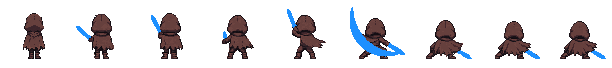
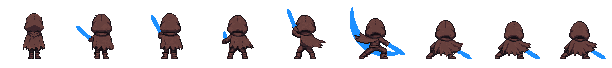
fix: 후면 1타 베기 잔상을 몸 뒤로, 끊긴 가운데 잇기
사용자 지적: 뒷모습이라 칼은 몸 너머인데 잔상이 몸 위에 그려졌고, 원본 칼 자리 지우기 때문에 잔상 가운데가 끊겼다.

Changed region(s): [[0.5588, 0.5, 0.652, 0.8235]]

diff --git a/assets/concepts/pixellab/player_import/build_remake_preview.py b/assets/concepts/pixellab/player_import/build_remake_preview.py
@@ -116,7 +116,9 @@ FRAME_PICK = {
 # 파란 덩어리를 모두 휘두른 잔상으로 보는 프레임 (칼은 몸에 가려 안 보이고 잔상만 있음, 2026-11-18 후면 1·2타)
 FORCE_SMEAR = {('backgpt1', 4), ('backgpt2', 4), ('backpl1', 5), ('backpl1', 6), ('backv2_1', 5)}
 # 잔상을 몸 위에 겹쳐 그리는 프레임 (반투명): 후면 1타 내려베는 순간 — 몸 뒤면 가운데가 가려져 한 번에 베는 느낌이 안 남 (2026-11-18)
-SMEAR_ON_TOP = {('backpl1', 5), ('backv2_1', 5)}
+# 직접 그린 잔상이라 원본 칼 자리로 지우지 않는 칸
+KEEP_WHOLE_SMEAR = {('backv2_1', 5)}
+SMEAR_ON_TOP = {('backpl1', 5)}  # backv2_1 5 는 몸 뒤 (2026-11-18 사용자 지적)
 # 칼·잔상이 몸과 얼굴을 가로질러 지운 자리가 지저분하게 남는 프레임은 깨끗한 프레임의 그림을 빌려 쓴다
 # (2026-11-17 사용자 지적: 얼굴 그림자가 프레임마다 다르고 픽셀이 묻어 있음).
 # 1타 5·6번은 몸 자세가 7번과 거의 같아 몸 전체를 7번으로 (칼 각도와 잔상은 그 프레임 것).
@@ -556,7 +558,8 @@ def build_layers(name, frames):
             donor_col, box = HEAD_DONOR[(name, col)]
             transplant_head(body, process_body(name, raw_frames[donor_col - 1]), box)
         # 원본 칼 둘레와 작은 조각은 지우고, 큰 덩어리만 잔상으로
-        smear = {p for p in smear if not near_sword(p, hx, hy, angle)}
+        if (name, col) not in KEEP_WHOLE_SMEAR:  # 직접 그린 잔상은 칼 자리로 지우지 않음 (가운데가 끊겼음, 같은 날 사용자 지적)
+            smear = {p for p in smear if not near_sword(p, hx, hy, angle)}
         # 작은 조각과 가는 줄(원본 칼의 가장자리)은 지우고, 넓은 덩어리만 잔상으로
         smear = {p for comp in components(smear)
                  if len(comp) >= SMEAR_MIN and (axis(comp)[3] > 1.6 or (name, col) in FORCE_SMEAR) for p in comp}

diff --git a/assets/concepts/pixellab/player_import/build_attack_back_v2.py b/assets/concepts/pixellab/player_import/build_attack_back_v2.py
@@ -1,7 +1,7 @@
 """후면 1타 3차 시트 (2026-11-18): ChatGPT 가 정면 1타 8장을 "뒤에서 본 같은 순간"으로 그린 그림
 (attack_back_kit/hit1_v2/result_hit1_back.png, 한 줄 8자세, 칼은 파란 단색)을 게임 크기로.
 build_attack_back.py 와 같은 방법: 배경 제거 → 8자세 자르기 → 첫 자세 키를 게임 뒷모습에 맞춰 NEAREST 로 줄임
-→ 색 맞춤(파랑은 그대로) → 발 맞춤. 5번째(판정)에는 칼이 지나간 길대로 큰 초승달 잔상을 몸 위에 겹친다
+→ 색 맞춤(파랑은 그대로) → 발 맞춤. 5번째(판정)에는 칼이 지나간 길대로 큰 초승달 잔상을 몸 뒤에 깐다
 (build_attack_back_pl.swoosh). 출력: remake_raw/attack_back_v2_68.png 0행 (칸 0 = 게임 뒷모습).
 """
 import os
@@ -114,7 +114,9 @@ def main():
     sheet = Image.new('RGBA', (68 * 9, 68), (0, 0, 0, 0))
     for k, cell in enumerate(body):
         if k - 1 == SWOOSH[0]:
-            cell.alpha_composite(bp.swoosh(cell.size, *SWOOSH[1]))  # 판정 장: 몸 위로 이어지는 잔상
+            arc = bp.swoosh(cell.size, *SWOOSH[1])  # 판정 장: 잔상은 몸 뒤 (뒷모습이라 칼은 몸 너머, 같은 날 사용자 지적)
+            arc.alpha_composite(cell)
+            cell = arc
         if MIRROR and k > 0:
             cell = cell.transpose(Image.FLIP_LEFT_RIGHT)
         sheet.alpha_composite(cell, (k * 68, 0))
